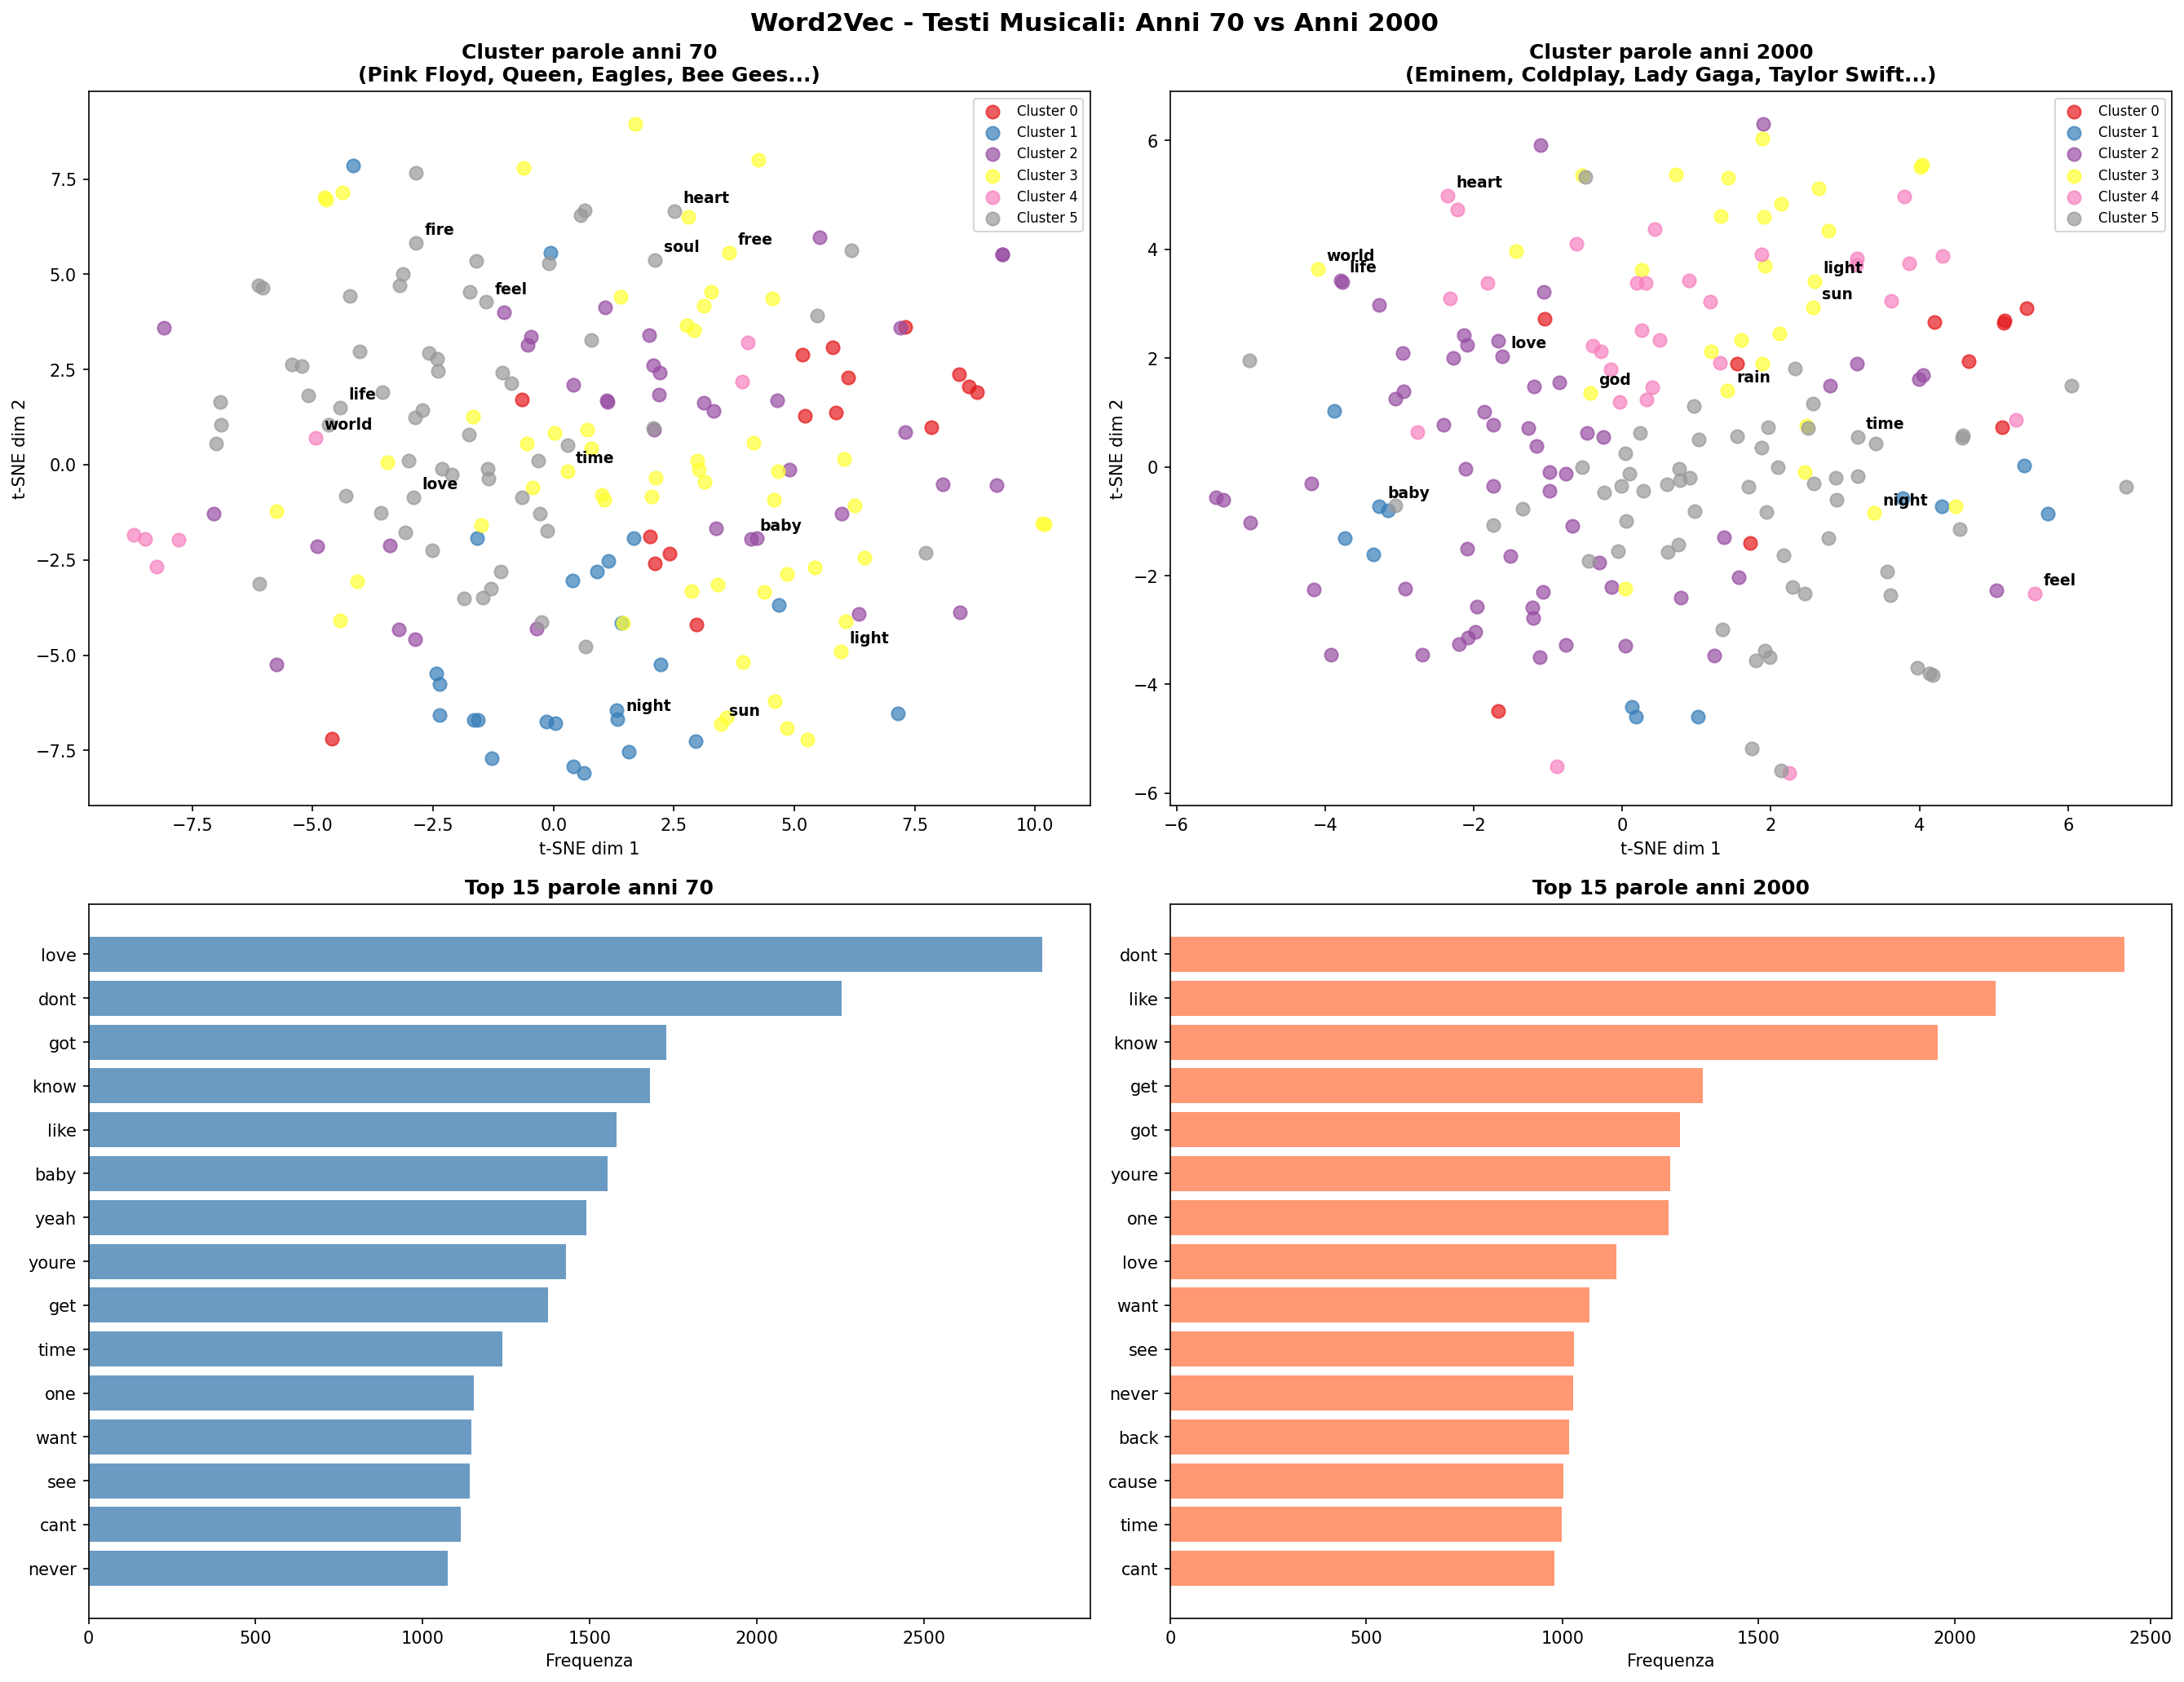
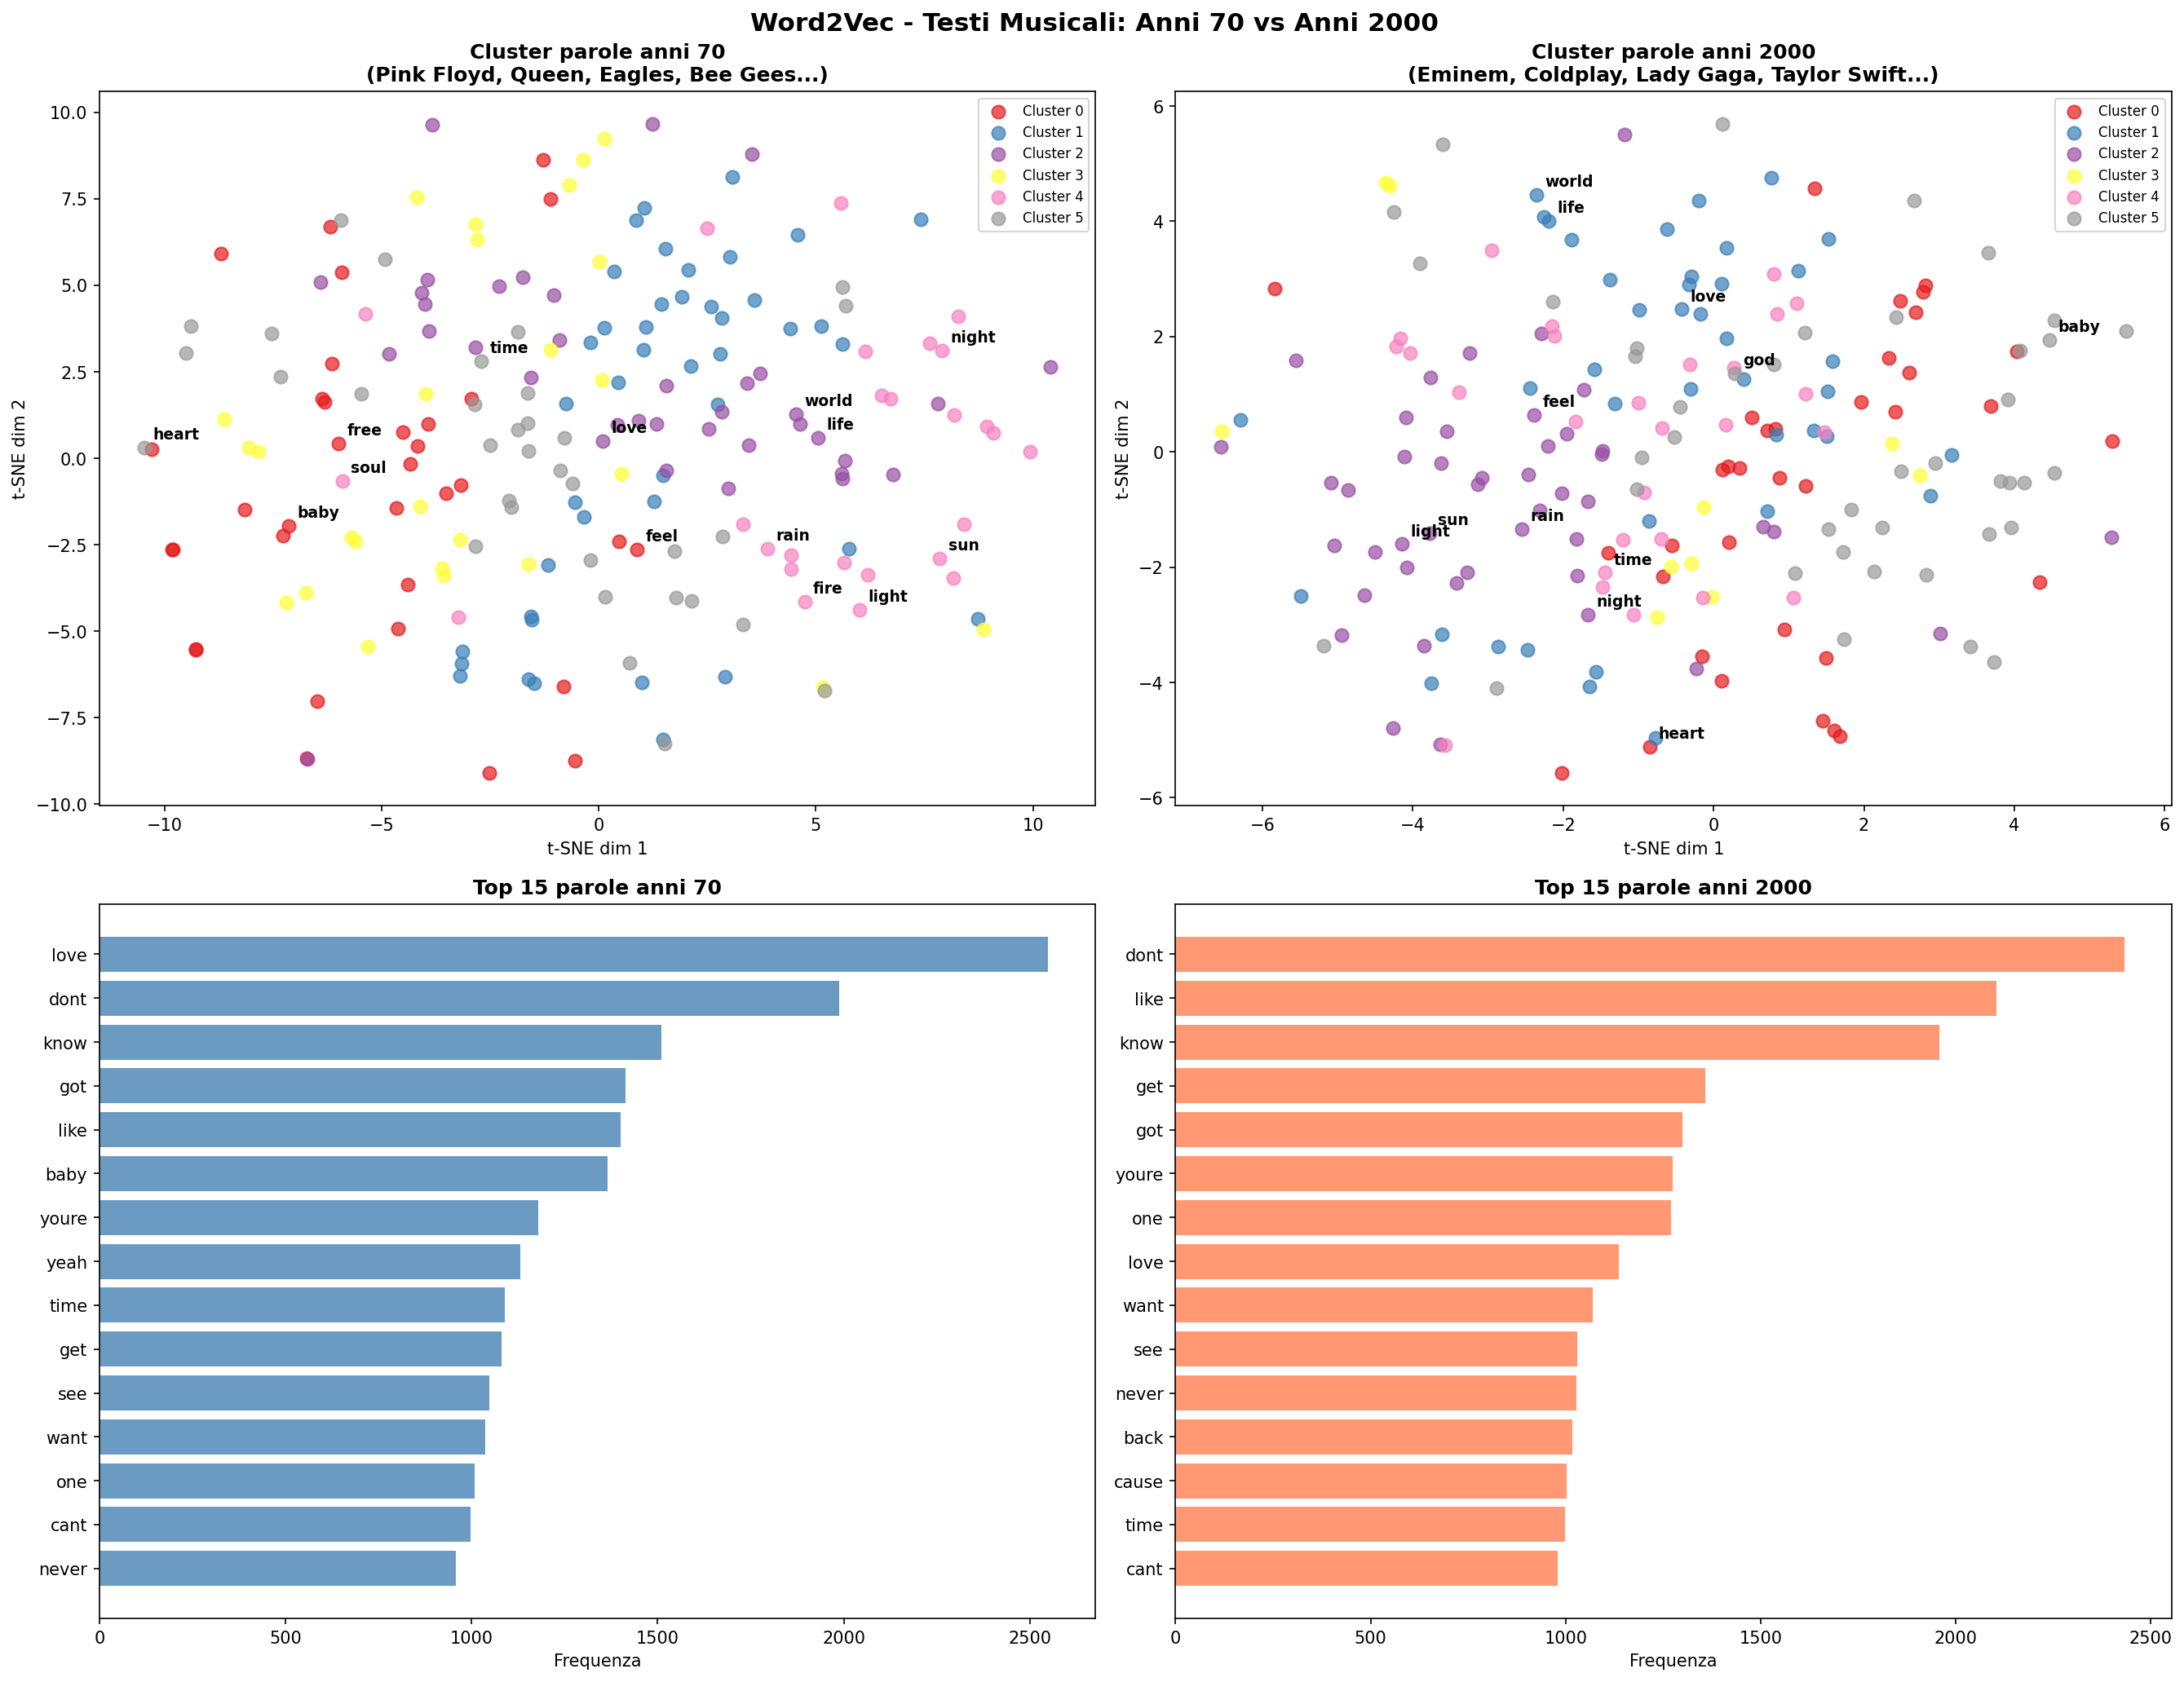
push

diff --git a/TLN/Parte2Radicioni/lab8_word2vec.py b/TLN/Parte2Radicioni/lab8_word2vec.py
@@ -43,7 +43,7 @@ print(f"Dataset: {df.shape[0]} canzoni, {df['artist'].nunique()} artisti")
 print("\n[STEP 2] Selezione artisti per era...")
 
 artisti_70s = [
-    'Aerosmith', 'Pink Floyd', 'Queen',
+    'Led Zeppelin', 'Pink Floyd', 'Queen',
     'Eagles', 'Fleetwood Mac', 'Bee Gees',
     'David Bowie', 'Elton John', 'ABBA',
     'Doors', 'Rolling Stones', 'Deep Purple'
@@ -454,29 +454,6 @@ plt.tight_layout()
 plt.savefig('word2vec_similarita.png', dpi=150, bbox_inches='tight')
 print("Salvato: word2vec_similarita.png")
 
-# --- Grafico 3: cambiamento semantico top 20 parole ---
-fig3, ax3 = plt.subplots(figsize=(10, 8))
-
-top20 = risultati[:20]
-nomi  = [r['parola'] for r in top20][::-1]
-vals  = [r['cambiamento'] for r in top20][::-1]
-
-bars = ax3.barh(nomi, vals, color='mediumpurple', alpha=0.8)
-ax3.set_xlabel('Cambiamento semantico (1 - overlap vicini)')
-ax3.set_title('Top 20 parole con maggior cambiamento contestuale\n'
-              'tra anni 70 e anni 2000', fontweight='bold')
-ax3.set_xlim(0, 1)
-ax3.axvline(x=0.5, color='gray', linestyle='--', alpha=0.5, label='50% cambiamento')
-ax3.legend()
-
-for bar, val in zip(bars, vals):
-    ax3.text(bar.get_width() + 0.01, bar.get_y() + bar.get_height()/2,
-             f'{val:.0%}', va='center', fontsize=9)
-
-plt.tight_layout()
-plt.savefig('word2vec_cambiamento.png', dpi=150, bbox_inches='tight')
-print("Salvato: word2vec_cambiamento.png")
-
 # ============================================================
 # STEP 10: Riepilogo
 # ============================================================
@@ -511,4 +488,3 @@ print("\nLab completato!")
 print("File generati:")
 print("  - word2vec_analisi.png")
 print("  - word2vec_similarita.png")
-print("  - word2vec_cambiamento.png")